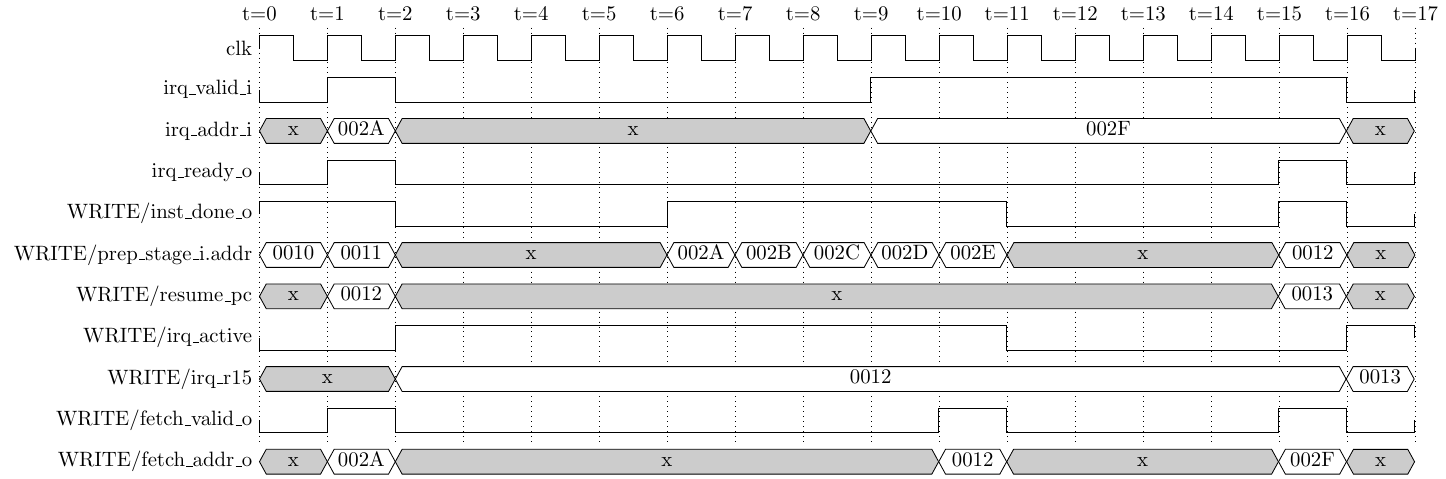
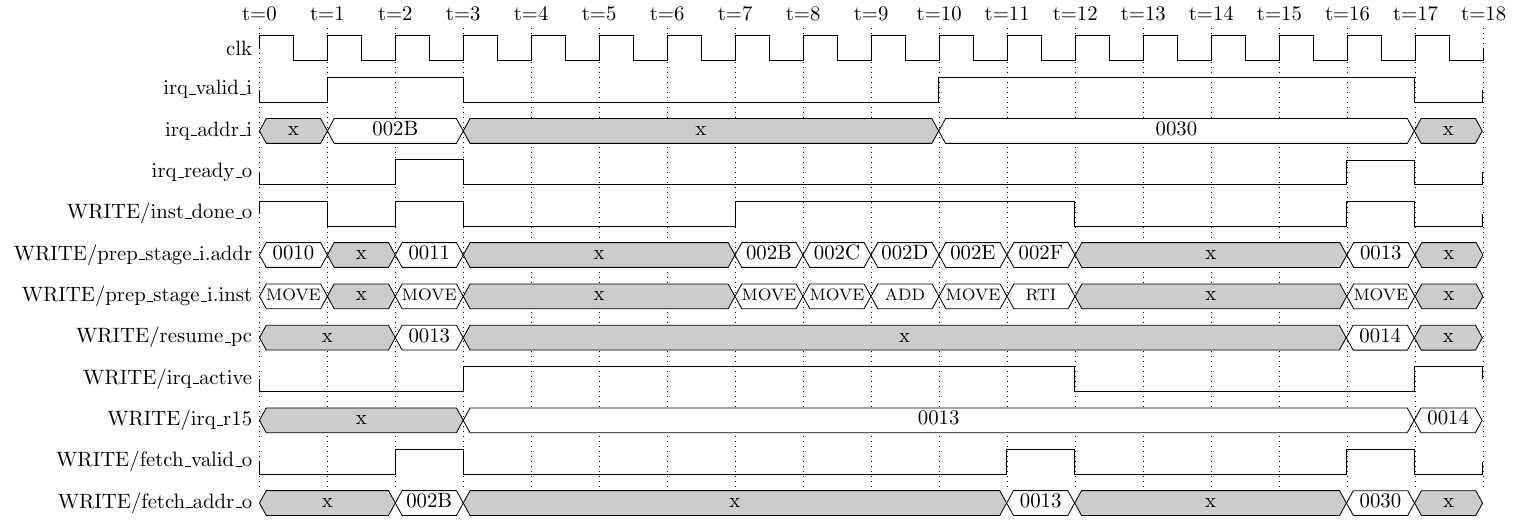
interrupt: Show a request waiting for a boundary, and add mnemonics to the diagram
The first request in test/prog_int_waveform.asm now arrives in a cycle in
which nothing retires, while the two-word "MOVE 0x0000, R2" at 0011 is still
in progress, and is taken the next cycle as that instruction retires. This
shows that a request is only accepted at an instruction boundary, and that the
return address follows both words. It costs one cycle: 18 in all.

timing.tex gains a prep_stage_i.inst row with each instruction's mnemonic,
set smaller than the addresses so that MOVE fits a one-cycle box. The diagram
and the walkthrough in src/interrupt/README.md are re-read from a fresh
simulation, and the program's golden files are regenerated.

Claude-Session: https://claude.ai/code/session_01QR1nXxnxN7TxRzmrwh9yrH

Changed region(s): [[0.0, 0.0, 0.9959, 0.9937]]

diff --git a/src/interrupt/timing.tex b/src/interrupt/timing.tex
@@ -1,7 +1,8 @@
 % Timing diagram of the CPU's interrupt request interface: one hardware
-% interrupt taken at the boundary it arrives at, followed by a second request
-% that arrives while the service routine is still running and is therefore made
-% to wait until the boundary after the RTI.
+% interrupt that arrives while an instruction is still in progress and is taken
+% as that instruction retires, followed by a second request that arrives while
+% the service routine is still running and is therefore made to wait until the
+% boundary after the RTI.
 %
 % The interface is AXI-stream shaped -- irq_valid_i / irq_ready_o / irq_addr_i --
 % and deliberately knows nothing about daisy chaining, which is a matter for the
@@ -12,10 +13,12 @@
 % clock cycle from 310 ns to 320 ns.  Changing that program, or the number of
 % cycles any instruction in it takes, invalidates them.  The addresses are:
 %
-%   0010-0012  padding "MOVE R2, R2" in the main program
-%   002A       ISR1, which requests the second interrupt
-%   002D-002E  the last two instructions of ISR1, ending in RTI at 002E
-%   002F       ISR2
+%   0010       padding "MOVE R2, R2" in the main program
+%   0011       the two-word "MOVE 0x0000, R2", the instruction request 1 waits for
+%   0013       padding again, the return address
+%   002B       ISR1, which requests the second interrupt
+%   002E-002F  the last two instructions of ISR1, ending in RTI at 002F
+%   0030       ISR2
 
 \documentclass{standalone}
 \usepackage{timing}
@@ -23,13 +26,19 @@
 % Four-digit addresses do not fit in a default-width box.
 \renewcommand{\wavescale}{1.15}
 
+% Mnemonics are set smaller than addresses, so that a four-letter one fits the
+% same one-cycle box.
+\newcommand{\mnem}[1]{{\footnotesize #1}}
+
 \begin{document}
 % Drawing convention, the same one src/cpu_main/timing.tex uses: handshake bits
 % are always drawn with their true value; a bus is greyed out ("x") in every
 % cycle in which it carries nothing this diagram is about -- irq_addr_i while
 % irq_valid_i is low (test/interrupt.vhd drives all-ones there on purpose),
-% prep_stage_i.addr and resume_pc except in a cycle an instruction retires in or
-% a request is taken in, and fetch_addr_o except when fetch_valid_o is high.
+% prep_stage_i.addr, prep_stage_i.inst, and resume_pc except in a cycle an
+% instruction retires in or a request is taken in, and fetch_addr_o except when
+% fetch_valid_o is high. prep_stage_i.inst is the instruction word, drawn as its
+% mnemonic without operands.
 %
 % There is no interrupt module between the pins and WRITE, and nothing in the
 % handshake is registered: WRITE reads irq_valid_i and irq_addr_i in the cycle an
@@ -38,23 +47,25 @@
 % irq_r14, not drawn), which change on the edge that ends a cycle with a
 % transfer or an RTI.
 %
-% t=1   Request 1 arrives in the cycle 0011 retires, and is taken in that same
-%       cycle: accepted, redirected to 002A, and resume_pc (0012) saved.
-% t=9   Request 2 arrives inside ISR1.  It is refused at 002D, and at the RTI
-%       at 002E (t=10), because irq_active is still high in that cycle.
-% t=15  The first instruction back at the return address, 0012, retires, and
-%       request 2 is taken, saving 0013.
-\begin{wave}{10}{17}
- \nextwave{irq\_valid\_i}                 \bit{0}{1} \bit{1}{1} \bit{0}{7} \bit{1}{7} \bit{0}{1}
- \nextwave{irq\_addr\_i}                  \unknown[x]{1} \known{002A}{1} \unknown[x]{7} \known{002F}{7} \unknown[x]{1}
- \nextwave{irq\_ready\_o}                 \bit{0}{1} \bit{1}{1} \bit{0}{13} \bit{1}{1} \bit{0}{1}
- \nextwave{WRITE/inst\_done\_o}           \bit{1}{2} \bit{0}{4} \bit{1}{5} \bit{0}{4} \bit{1}{1} \bit{0}{1}
- \nextwave{WRITE/prep\_stage\_i.addr}     \known{0010}{1} \known{0011}{1} \unknown[x]{4} \known{002A}{1} \known{002B}{1} \known{002C}{1} \known{002D}{1} \known{002E}{1} \unknown[x]{4} \known{0012}{1} \unknown[x]{1}
- \nextwave{WRITE/resume\_pc}              \unknown[x]{1} \known{0012}{1} \unknown[x]{13} \known{0013}{1} \unknown[x]{1}
- \nextwave{WRITE/irq\_active}             \bit{0}{2} \bit{1}{9} \bit{0}{5} \bit{1}{1}
- \nextwave{WRITE/irq\_r15}                \unknown[x]{2} \known{0012}{14} \known{0013}{1}
- \nextwave{WRITE/fetch\_valid\_o}         \bit{0}{1} \bit{1}{1} \bit{0}{8} \bit{1}{1} \bit{0}{4} \bit{1}{1} \bit{0}{1}
- \nextwave{WRITE/fetch\_addr\_o}          \unknown[x]{1} \known{002A}{1} \unknown[x]{8} \known{0012}{1} \unknown[x]{4} \known{002F}{1} \unknown[x]{1}
+% t=1   Request 1 arrives in a cycle in which nothing retires, so it waits.
+% t=2   The two-word MOVE at 0011 retires, and request 1 is taken in that same
+%       cycle: accepted, redirected to 002B, and resume_pc (0013) saved.
+% t=10  Request 2 arrives inside ISR1.  It is refused at 002E, and at the RTI
+%       at 002F (t=11), because irq_active is still high in that cycle.
+% t=16  The first instruction back at the return address, 0013, retires, and
+%       request 2 is taken, saving 0014.
+\begin{wave}{11}{18}
+ \nextwave{irq\_valid\_i}                 \bit{0}{1} \bit{1}{2} \bit{0}{7} \bit{1}{7} \bit{0}{1}
+ \nextwave{irq\_addr\_i}                  \unknown[x]{1} \known{002B}{2} \unknown[x]{7} \known{0030}{7} \unknown[x]{1}
+ \nextwave{irq\_ready\_o}                 \bit{0}{2} \bit{1}{1} \bit{0}{13} \bit{1}{1} \bit{0}{1}
+ \nextwave{WRITE/inst\_done\_o}           \bit{1}{1} \bit{0}{1} \bit{1}{1} \bit{0}{4} \bit{1}{5} \bit{0}{4} \bit{1}{1} \bit{0}{1}
+ \nextwave{WRITE/prep\_stage\_i.addr}     \known{0010}{1} \unknown[x]{1} \known{0011}{1} \unknown[x]{4} \known{002B}{1} \known{002C}{1} \known{002D}{1} \known{002E}{1} \known{002F}{1} \unknown[x]{4} \known{0013}{1} \unknown[x]{1}
+ \nextwave{WRITE/prep\_stage\_i.inst}     \known{\mnem{MOVE}}{1} \unknown[x]{1} \known{\mnem{MOVE}}{1} \unknown[x]{4} \known{\mnem{MOVE}}{1} \known{\mnem{MOVE}}{1} \known{\mnem{ADD}}{1} \known{\mnem{MOVE}}{1} \known{\mnem{RTI}}{1} \unknown[x]{4} \known{\mnem{MOVE}}{1} \unknown[x]{1}
+ \nextwave{WRITE/resume\_pc}              \unknown[x]{2} \known{0013}{1} \unknown[x]{13} \known{0014}{1} \unknown[x]{1}
+ \nextwave{WRITE/irq\_active}             \bit{0}{3} \bit{1}{9} \bit{0}{5} \bit{1}{1}
+ \nextwave{WRITE/irq\_r15}                \unknown[x]{3} \known{0013}{14} \known{0014}{1}
+ \nextwave{WRITE/fetch\_valid\_o}         \bit{0}{2} \bit{1}{1} \bit{0}{8} \bit{1}{1} \bit{0}{4} \bit{1}{1} \bit{0}{1}
+ \nextwave{WRITE/fetch\_addr\_o}          \unknown[x]{2} \known{002B}{1} \unknown[x]{8} \known{0013}{1} \unknown[x]{4} \known{0030}{1} \unknown[x]{1}
 \end{wave}
 
 \end{document}

diff --git a/src/interrupt/README.md b/src/interrupt/README.md
@@ -37,9 +37,10 @@ Three design rules follow:
 
 ![Interrupt protocol timing](timing.png)
 
-One hardware interrupt taken at the instruction boundary it arrives at, followed
-by a second request that arrives while the service routine is still running and
-is therefore made to wait. Read off a simulation of
+One hardware interrupt that arrives while an instruction is still in progress
+and is taken as that instruction retires, followed by a second request that
+arrives while the service routine is still running and is therefore made to
+wait. The row under each instruction address gives its mnemonic. Read off a simulation of
 `test/prog_int_waveform.asm`, which is in `TESTS` so that a change invalidating
 the diagram fails the golden diff, and rendered from [timing.tex](timing.tex) by
 `make diagrams`.
@@ -52,36 +53,41 @@ Nothing in the handshake is registered. WRITE looks at `irq_valid_i` and
 cycle. The only state is `irq_active` and the saved `irq_r15` (and `irq_r14`, not
 drawn), which change on the edge that ends a cycle with a transfer or an `RTI`.
 
-* **t=0** The main program is running through padding at `0010`, one instruction
-  retiring per cycle. No request.
-* **t=1** The device asserts `irq_valid_i` with `irq_addr_i = 002A`, in the cycle
-  `0011` retires. **This is the transfer, the commit, and the redirect, all in
-  one cycle**: `irq_ready_o` is high, `fetch_valid_o` sends FETCH to `002A`, and
+* **t=0** The main program is running through padding, the one-word `MOVE` at
+  `0010`. No request.
+* **t=1** The device asserts `irq_valid_i` with `irq_addr_i = 002B`, but nothing
+  retires in this cycle: the next instruction, `0011`, is two words long and not
+  finished yet. So `irq_ready_o` stays low. **A request is only ever taken at an
+  instruction boundary**, and the device holds it.
+* **t=2** The two-word `MOVE` at `0011` retires, and the request is taken in that
+  same cycle. **This is the transfer, the commit, and the redirect, all in one
+  cycle**: `irq_ready_o` is high, `fetch_valid_o` sends FETCH to `002B`, and
   `resume_pc` — the address execution would otherwise have continued at, here
-  `0012` — is latched into `irq_r15` on the edge that ends the cycle, together
-  with `irq_active`. A request that arrives at an instruction boundary costs no
-  cycles of its own beyond the redirect.
-* **t=2** The device has dropped `irq_valid_i`, and scrambles `irq_addr_i` so
+  `0013`, after both words — is latched into `irq_r15` on the edge that ends the
+  cycle, together with `irq_active`. The request costs no cycles of its own beyond
+  waiting for the boundary and the redirect.
+* **t=3** The device has dropped `irq_valid_i`, and scrambles `irq_addr_i` so
   that a CPU capturing it late would fail. `irq_active` is high. Nothing retires
-  for four cycles while the pipeline refills from `002A`, the same penalty a
+  for four cycles while the pipeline refills from `002B`, the same penalty a
   taken branch pays.
-* **t=6 to t=8** ISR1 retires its first three instructions; the second of them,
-  at `002B`, is the write that asks the device for another interrupt.
-* **t=9** The device asserts `irq_valid_i` again, with `002F`. `002D` retires,
-  but `irq_active` is high, so `irq_ready_o` stays low: interrupts do not nest.
-* **t=10** The `RTI` at `002E` retires. `fetch_valid_o` returns to `irq_r15`,
-  `0012`, and `irq_active` clears on the edge that ends the cycle. The request is
-  refused **during** t=10, because `irq_active` is still high for the whole of
+* **t=7 to t=9** ISR1 retires its first three instructions; the second of them,
+  the `MOVE` at `002C`, is the write that asks the device for another interrupt.
+* **t=10** The device asserts `irq_valid_i` again, with `0030`. The `MOVE` at
+  `002E` retires, but `irq_active` is high, so `irq_ready_o` stays low:
+  interrupts do not nest.
+* **t=11** The `RTI` at `002F` retires. `fetch_valid_o` returns to `irq_r15`,
+  `0013`, and `irq_active` clears on the edge that ends the cycle. The request is
+  refused **during** t=11, because `irq_active` is still high for the whole of
   it.
-* **t=11 to t=14** `irq_active` is low and the request is still held, but nothing
-  retires while the pipeline refills from `0012`, and a request is only taken at
+* **t=12 to t=15** `irq_active` is low and the request is still held, but nothing
+  retires while the pipeline refills from `0013`, and a request is only taken at
   a boundary.
-* **t=15** `0012`, the first instruction back in the main program, retires, and
-  request 2 is taken exactly as request 1 was: accepted, redirected to `002F`,
-  and `0013` saved.
+* **t=16** The `MOVE` at `0013`, the first instruction back in the main program,
+  retires, and request 2 is taken exactly as request 1 was: accepted, redirected
+  to `0030`, and `0014` saved.
 
-Two things follow. t=10 to t=15 are **guarantee 6 of
-[the contract](#the-contract)**: request 2 was pending throughout, yet `0012`, the
+Two things follow. t=11 to t=16 are **guarantee 6 of
+[the contract](#the-contract)**: request 2 was pending throughout, yet `0013`, the
 instruction at the return address, retires before it is taken. And **a device
 may withdraw**: a request dropped before the cycle it would be taken in is simply
 never seen, because nothing remembers it.
